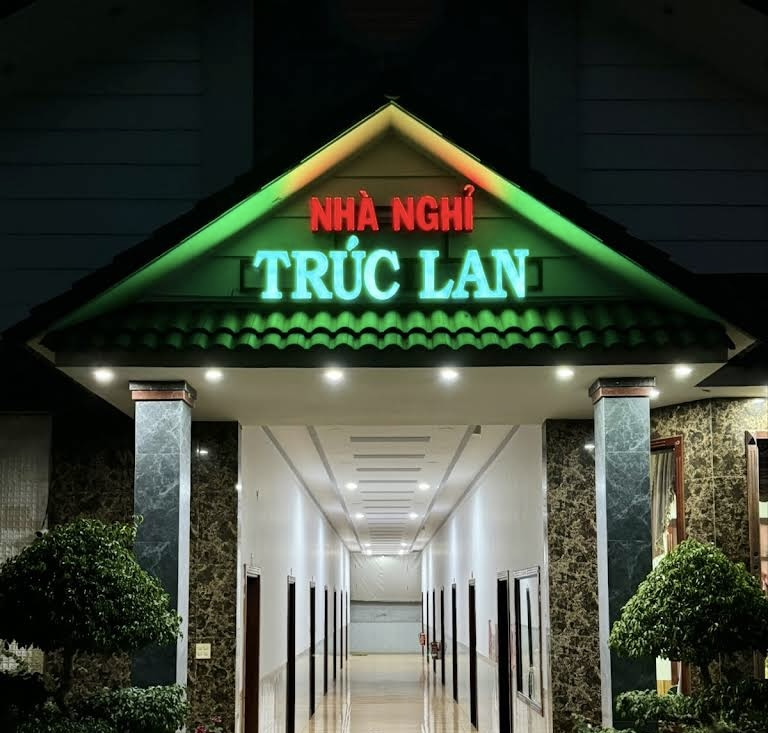
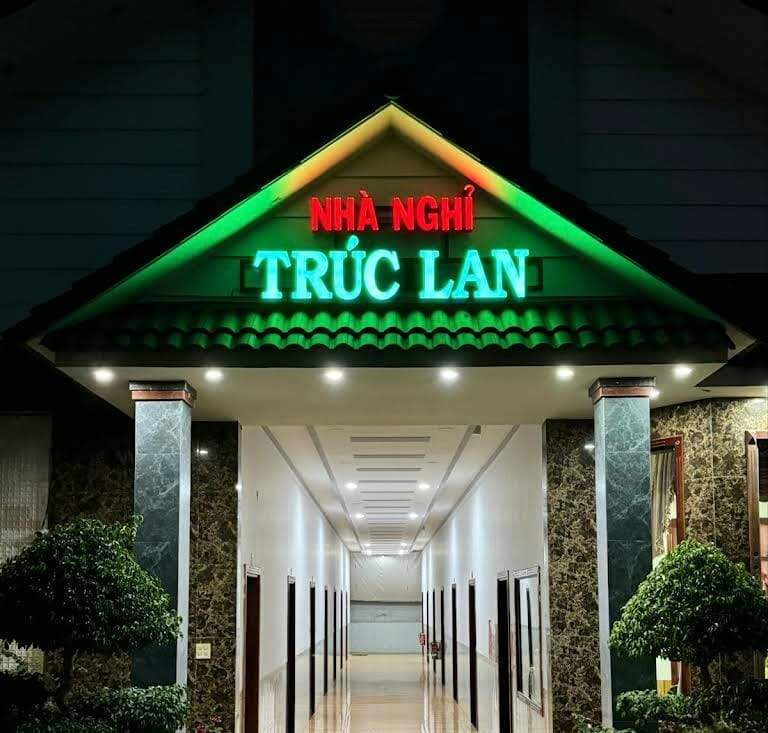
Tối ưu ảnh và sửa khung hero hiển thị đủ bảng hiệu
- Nén lại motel.jpeg (xoá EXIF, mozjpeg): giảm ~41% dung lượng
- Thêm motel.webp cho trình duyệt hiện đại (nhỏ hơn ~50%)
- Dùng <picture> với WebP + fallback JPEG cho hero và gallery
- Thêm width/height + fetchpriority/loading để tránh layout shift
- object-position: center 30% để hero hiển thị đủ bảng hiệu 'NHÀ NGHỈ TRÚC LAN'

Changed region(s): [[0.1562, 0.2401, 0.875, 0.4802]]

diff --git a/index.html b/index.html
@@ -45,7 +45,7 @@
   header .btn-call { padding: 8px 14px; font-size: 14px; }
 
   .hero { position: relative; }
-  .hero img { width: 100%; height: 320px; object-fit: cover; display: block; }
+  .hero img { width: 100%; height: 320px; object-fit: cover; object-position: center 30%; display: block; }
   .hero-text { padding: 24px 0; }
   .hero-text h1 { font-size: 26px; line-height: 1.3; }
   .stars { color: #f5a623; font-size: 18px; }
@@ -69,7 +69,7 @@
   blockquote span { display: block; color: #777; font-size: 13px; margin-top: 6px; }
 
   .gallery { display: grid; grid-template-columns: repeat(auto-fit, minmax(200px, 1fr)); gap: 10px; }
-  .gallery img { width: 100%; height: 180px; object-fit: cover; border-radius: 10px; }
+  .gallery img { width: 100%; height: 180px; object-fit: cover; object-position: center 30%; border-radius: 10px; }
 
   .en-box { background: #fffbe9; border: 1px solid #f0dfa0; border-radius: 12px; padding: 14px 16px; font-size: 15px; }
 
@@ -93,7 +93,10 @@
 </header>
 
 <div class="hero">
-  <img src="images/motel.jpeg" alt="Nhà Nghỉ Trúc Lan – Hưng Thịnh, Trảng Bom, Đồng Nai">
+  <picture>
+    <source srcset="images/motel.webp" type="image/webp">
+    <img src="images/motel.jpeg" alt="Nhà Nghỉ Trúc Lan – Hưng Thịnh, Trảng Bom, Đồng Nai" width="768" height="733" fetchpriority="high">
+  </picture>
 </div>
 
 <div class="wrap hero-text">
@@ -147,7 +150,10 @@
   <div class="wrap">
     <h2>Hình ảnh</h2>
     <div class="gallery">
-      <img src="images/motel.jpeg" alt="Mặt tiền Nhà Nghỉ Trúc Lan">
+      <picture>
+        <source srcset="images/motel.webp" type="image/webp">
+        <img src="images/motel.jpeg" alt="Mặt tiền Nhà Nghỉ Trúc Lan" width="768" height="733" loading="lazy">
+      </picture>
       <!-- THÊM ẢNH: tải ảnh lên thư mục images rồi bỏ dấu chú thích các dòng dưới
       <img src="images/phong.jpeg" alt="Phòng ngủ sạch sẽ">
       <img src="images/nhatam.jpeg" alt="Nhà tắm rộng rãi">
